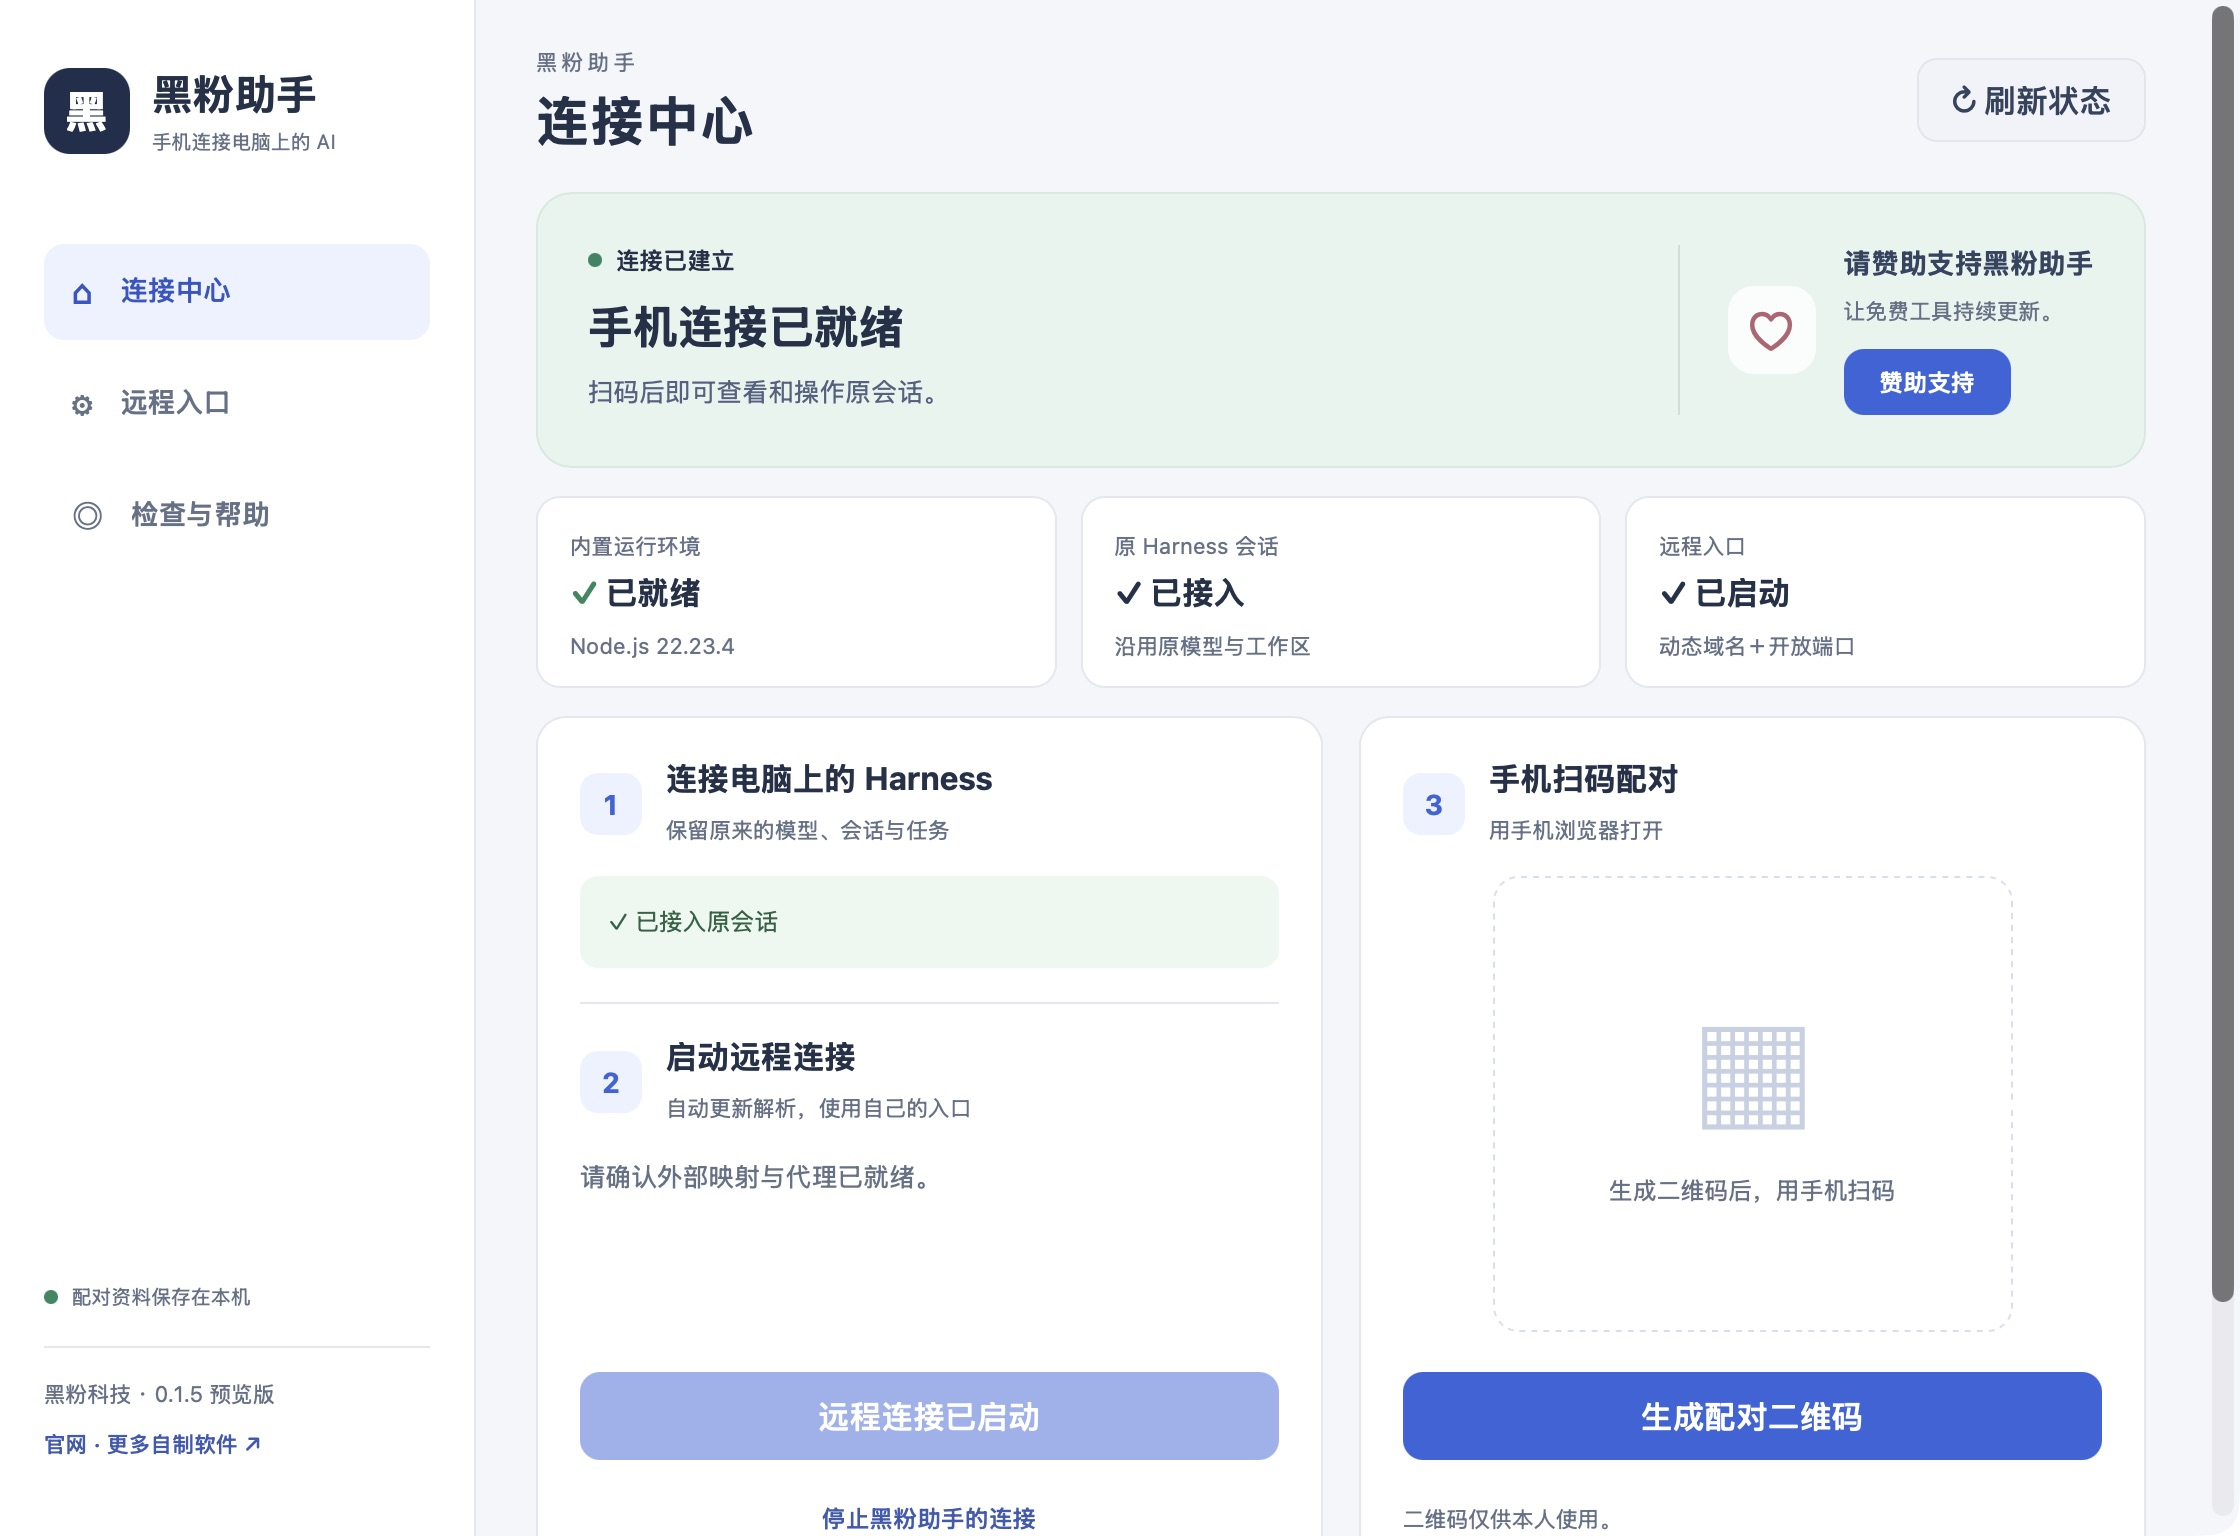
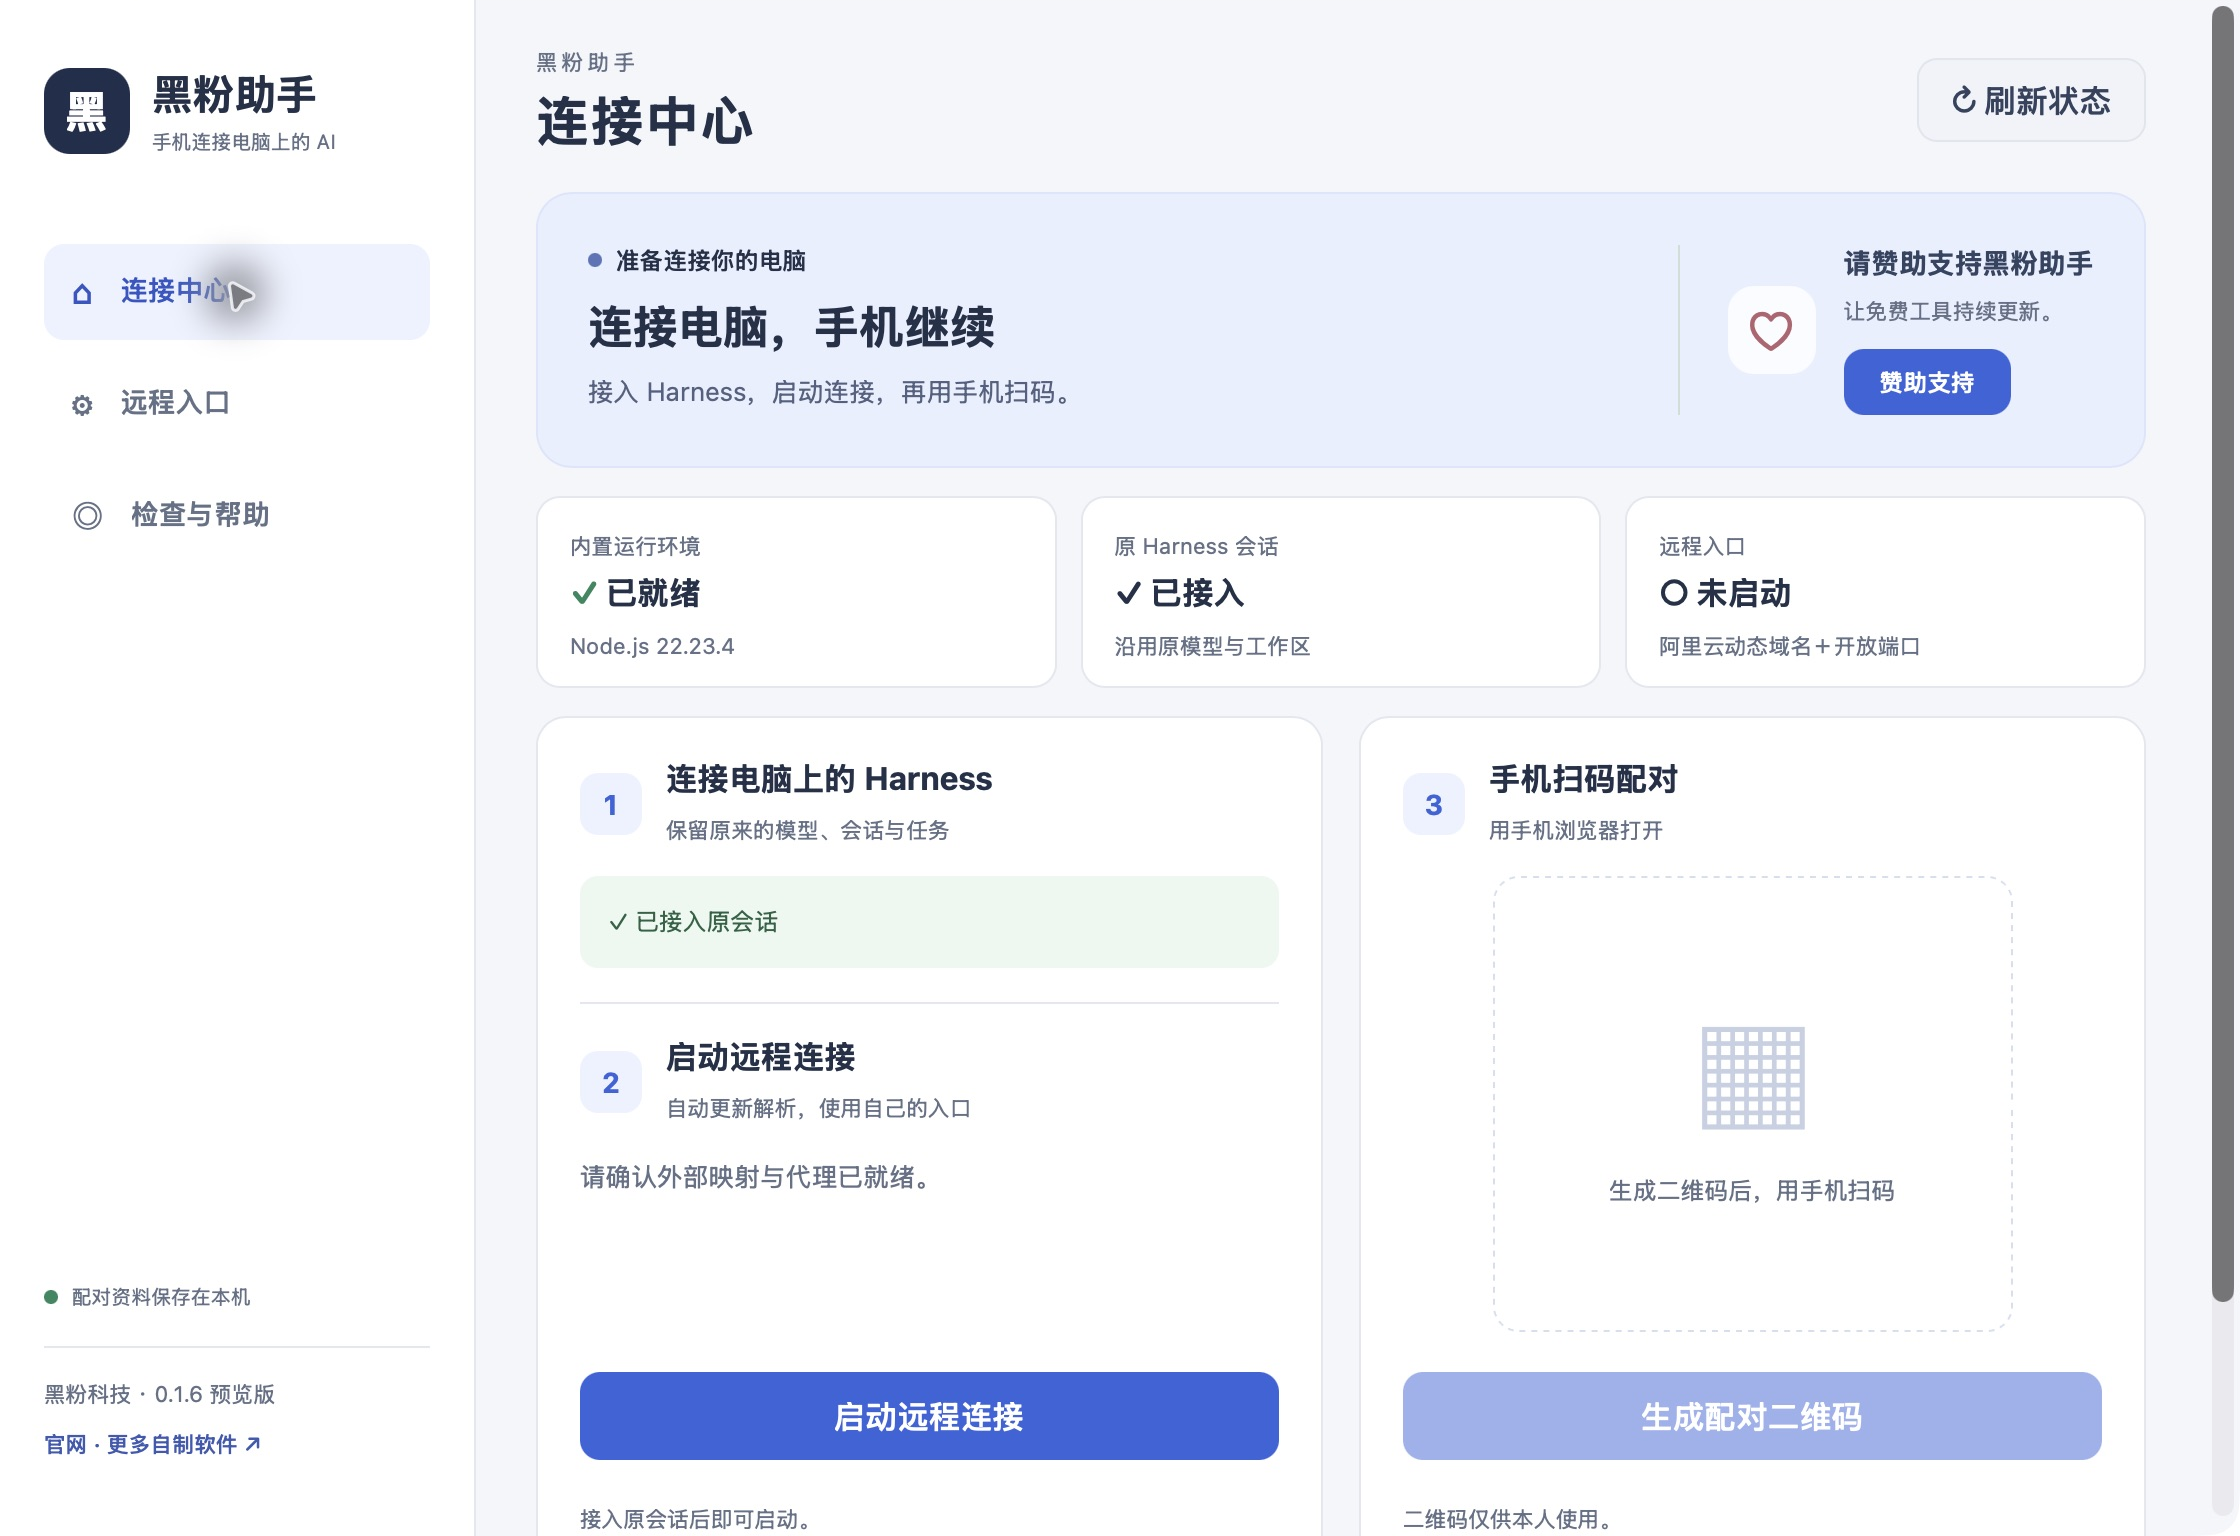
说明0.1.6密钥导入清除及阿里云支持范围

diff --git a/README.md b/README.md
@@ -2,7 +2,7 @@
 
 **手机连接电脑上的 AI。** 电脑运行 DeepSeek Harness 原任务，手机浏览器进入同一工作区，查看会话并继续发送要求。
 
-黑粉科技制作的独立辅助工具，当前为 **0.1.5 预览版**。官方 Harness 是被连接的目标软件，需要先在电脑上安装、配置好模型并能正常使用。黑粉助手内置自己的运行依赖，无需另外安装 Node.js、通道程序或二维码组件。
+黑粉科技制作的独立辅助工具，当前为 **0.1.6 预览版**。官方 Harness 是被连接的目标软件，需要先在电脑上安装、配置好模型并能正常使用。黑粉助手内置自己的运行依赖，无需另外安装 Node.js、通道程序或二维码组件。
 
 ## 近期新增与改进
 
@@ -21,15 +21,15 @@
 
 | 系统 | 安装方式 | 下载 |
 |---|---|---|
-| macOS Apple Silicon，13及以上 | 下载DMG，把黑粉助手拖入应用程序 | [Mac安装包](https://github.com/HackerChi-Hub/hyphen-assistant-releases/releases/latest/download/HyphenAssistant-0.1.5-macos-arm64.dmg) |
-| Windows x64 | 下载EXE安装程序，按向导安装；包含离线WebView2安装器 | [Windows安装程序](https://github.com/HackerChi-Hub/hyphen-assistant-releases/releases/latest/download/HyphenAssistant-0.1.5-windows-x64-setup.exe) |
-| Linux x64 | 使用AppImage或适合发行版的deb/rpm包，仍需兼容的桌面系统；AppImage首次需在文件属性中允许作为程序执行 | [AppImage](https://github.com/HackerChi-Hub/hyphen-assistant-releases/releases/latest/download/HyphenAssistant-0.1.5-linux-x64.AppImage) · [deb](https://github.com/HackerChi-Hub/hyphen-assistant-releases/releases/latest/download/HyphenAssistant-0.1.5-linux-x64.deb) · [rpm](https://github.com/HackerChi-Hub/hyphen-assistant-releases/releases/latest/download/HyphenAssistant-0.1.5-linux-x64.rpm) |
+| macOS Apple Silicon，13及以上 | 下载DMG，把黑粉助手拖入应用程序 | [Mac安装包](https://github.com/HackerChi-Hub/hyphen-assistant-releases/releases/latest/download/HyphenAssistant-0.1.6-macos-arm64.dmg) |
+| Windows x64 | 下载EXE安装程序，按向导安装；包含离线WebView2安装器 | [Windows安装程序](https://github.com/HackerChi-Hub/hyphen-assistant-releases/releases/latest/download/HyphenAssistant-0.1.6-windows-x64-setup.exe) |
+| Linux x64 | 使用AppImage或适合发行版的deb/rpm包，仍需兼容的桌面系统；AppImage首次需在文件属性中允许作为程序执行 | [AppImage](https://github.com/HackerChi-Hub/hyphen-assistant-releases/releases/latest/download/HyphenAssistant-0.1.6-linux-x64.AppImage) · [deb](https://github.com/HackerChi-Hub/hyphen-assistant-releases/releases/latest/download/HyphenAssistant-0.1.6-linux-x64.deb) · [rpm](https://github.com/HackerChi-Hub/hyphen-assistant-releases/releases/latest/download/HyphenAssistant-0.1.6-linux-x64.rpm) |
 
 安装件尚未完成 Apple 公证或 Windows 商业代码签名。Mac首次打开受阻时，在系统设置的“隐私与安全性”中核实来源后选择仍要打开；Windows出现SmartScreen提示时核实发行来源，再按“更多信息”继续。更新包的数字签名用于校验更新完整性，不等同于操作系统发行证书。
 
 ## 实际界面
 
-以下为Mac实际安装界面，连接中心及密钥提示已更新至0.1.5。域名示例未保存，未展示私人配对码。
+以下为Mac实际安装界面，未展示私人配对码。域名示例用于说明配置。
 
 ![黑粉助手连接中心](screenshots/connection.png)
 
@@ -85,8 +85,8 @@
 ## 已核实的验收范围
 
 - Mac：从DMG安装，双栏布局、内置后端、真实Harness认证及第三种模式配对通过；真实网页消息、空闲后回复、刷新后登录保持通过。临时通道与断开确认另有实际验收记录。
-- Windows：原生31项检查、中文EXE安装、安装后内置后端及应用启动检查通过。
-- Linux：原生31项检查、AppImage解包后的内置后端及虚拟桌面启动检查通过；同时提供deb和rpm。
+- Windows：原生33项检查、中文EXE安装、安装后内置后端及应用启动检查通过。
+- Linux：原生33项检查、AppImage解包后的内置后端及虚拟桌面启动检查通过；同时提供deb和rpm。
 - 阿里云动态域名：官方 SDK 签名对照与真实账户只读查询通过；更新、重复记录拒绝、不变不写与密钥保护通过隔离测试；现有环境完成真实更新与恢复、定时检查及消息收发验收。全新用户配置不依赖开发者域名、旧脚本、树莓派或证书文件。
 - 三个平台的安装件都有SHA-256；更新包另有独立数字签名。Mac和Linux AppImage支持对应的签名更新包，deb/rpm使用新版安装包更新。
 - 真实手机切网、真实任务工具批准和长任务恢复仍待专项验收；隔离启动检查不等同于真机持续使用。
@@ -96,3 +96,22 @@
 - [官方 DeepSeek Harness](https://github.com/deepseek-ai/deepseek-harness)
 - [Cloudflare 临时通道说明](https://developers.cloudflare.com/tunnel/get-started/quick-tunnels/)
 - [黑粉科技](https://hyphentech.top)
+
+## 密钥导入与清除
+
+应用内动态域名自动更新目前仅支持阿里云IPv4 A记录。其他域名平台可使用“开放端口”，解析、动态更新、代理与证书由用户在外部配置。
+
+连接运行时，点击“停止连接并修改配置”后可编辑。输入新密钥时须同时填写两项；留空保留已存值。点击“清除已保存密钥”仅清除本机阿里云密钥及旧检查状态，保留域名、监听参数、云端解析和外部证书。清除后必须重新填写或导入并保存，才能启动动态域名连接。
+
+可导入仅包含一对密钥的CSV或JSON文本文件，最多64KB。导入只填入当前表单，内容隐藏，点击保存后才写入本机。错误文件或多个账户不会覆盖已有输入。原文件不上传、不复制到应用目录；请自行妥善保存或清理原文件。
+
+CSV表头为 `AccessKey ID,AccessKey Secret`，下一行填写自己的一对密钥。JSON格式如下：
+
+```json
+{
+  "AccessKeyId": "你的访问密钥标识",
+  "AccessKeySecret": "你的访问密钥"
+}
+```
+
+支持阿里云密钥字段；其他平台的令牌或证书文件不能用于此导入。
